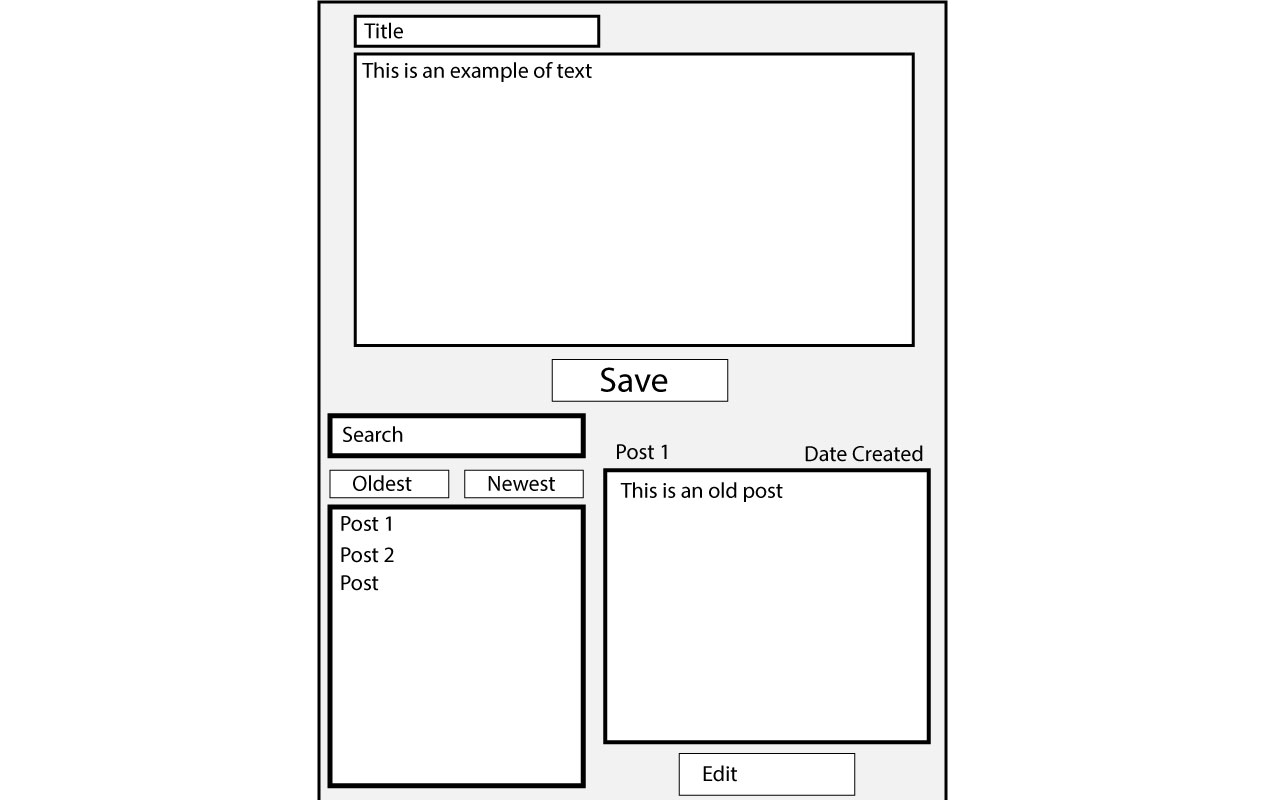
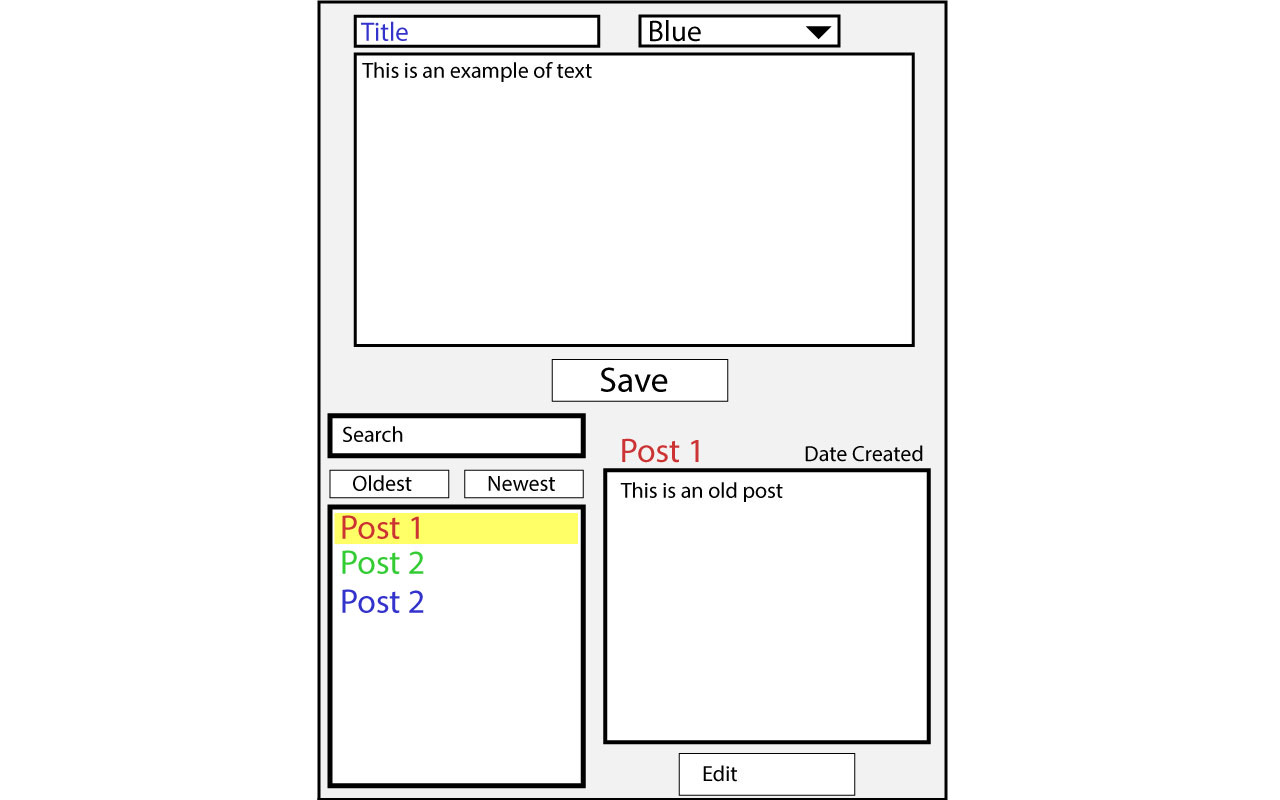
added features

diff --git a/README.md b/README.md
@@ -4,14 +4,17 @@
 Below is a picture of what the project could look like. There will be *no points awarded for the style* of the project only functionality. You have an hour and a half to create as many features you can based off the features listed below. Who ever has the most points after an hour and a half gets the main prize. Second place will also get a prize. In the event of a tie, the winner of the tie breaker will go to who has the least number of lines in your code.
 
 <pre>
-10: Can add journal entry
+10: Can create journal entry
 5: Each entry has a title
 5: User can remove journal entry
 10: User can view previous entries one at a time by selecting from list of previous entries
 10: User can edit previous entries
-15: Each entry has a time stamp and displays the date down to the minute that the entry was made
 10: User can search for previous entries by title
-10: User can filter list to show oldest entries first or newest entries first
+10: Highlights the selected post
+15: Can toggle between displaying the title or the date created in the previous posts section.
+15: User can filter list to show oldest entries first or newest entries first
+15: Each entry has a time stamp and displays the date down to the minute that the entry was made (on edit of post keep the same time stamp.)
+15: Each post has a color tied to it, the color of the title of the individual post will reflect that color
 </pre>
 
 <img src="https://github.com/Rasbandit/Journal-Maker-outline/blob/master/journal.jpg">
